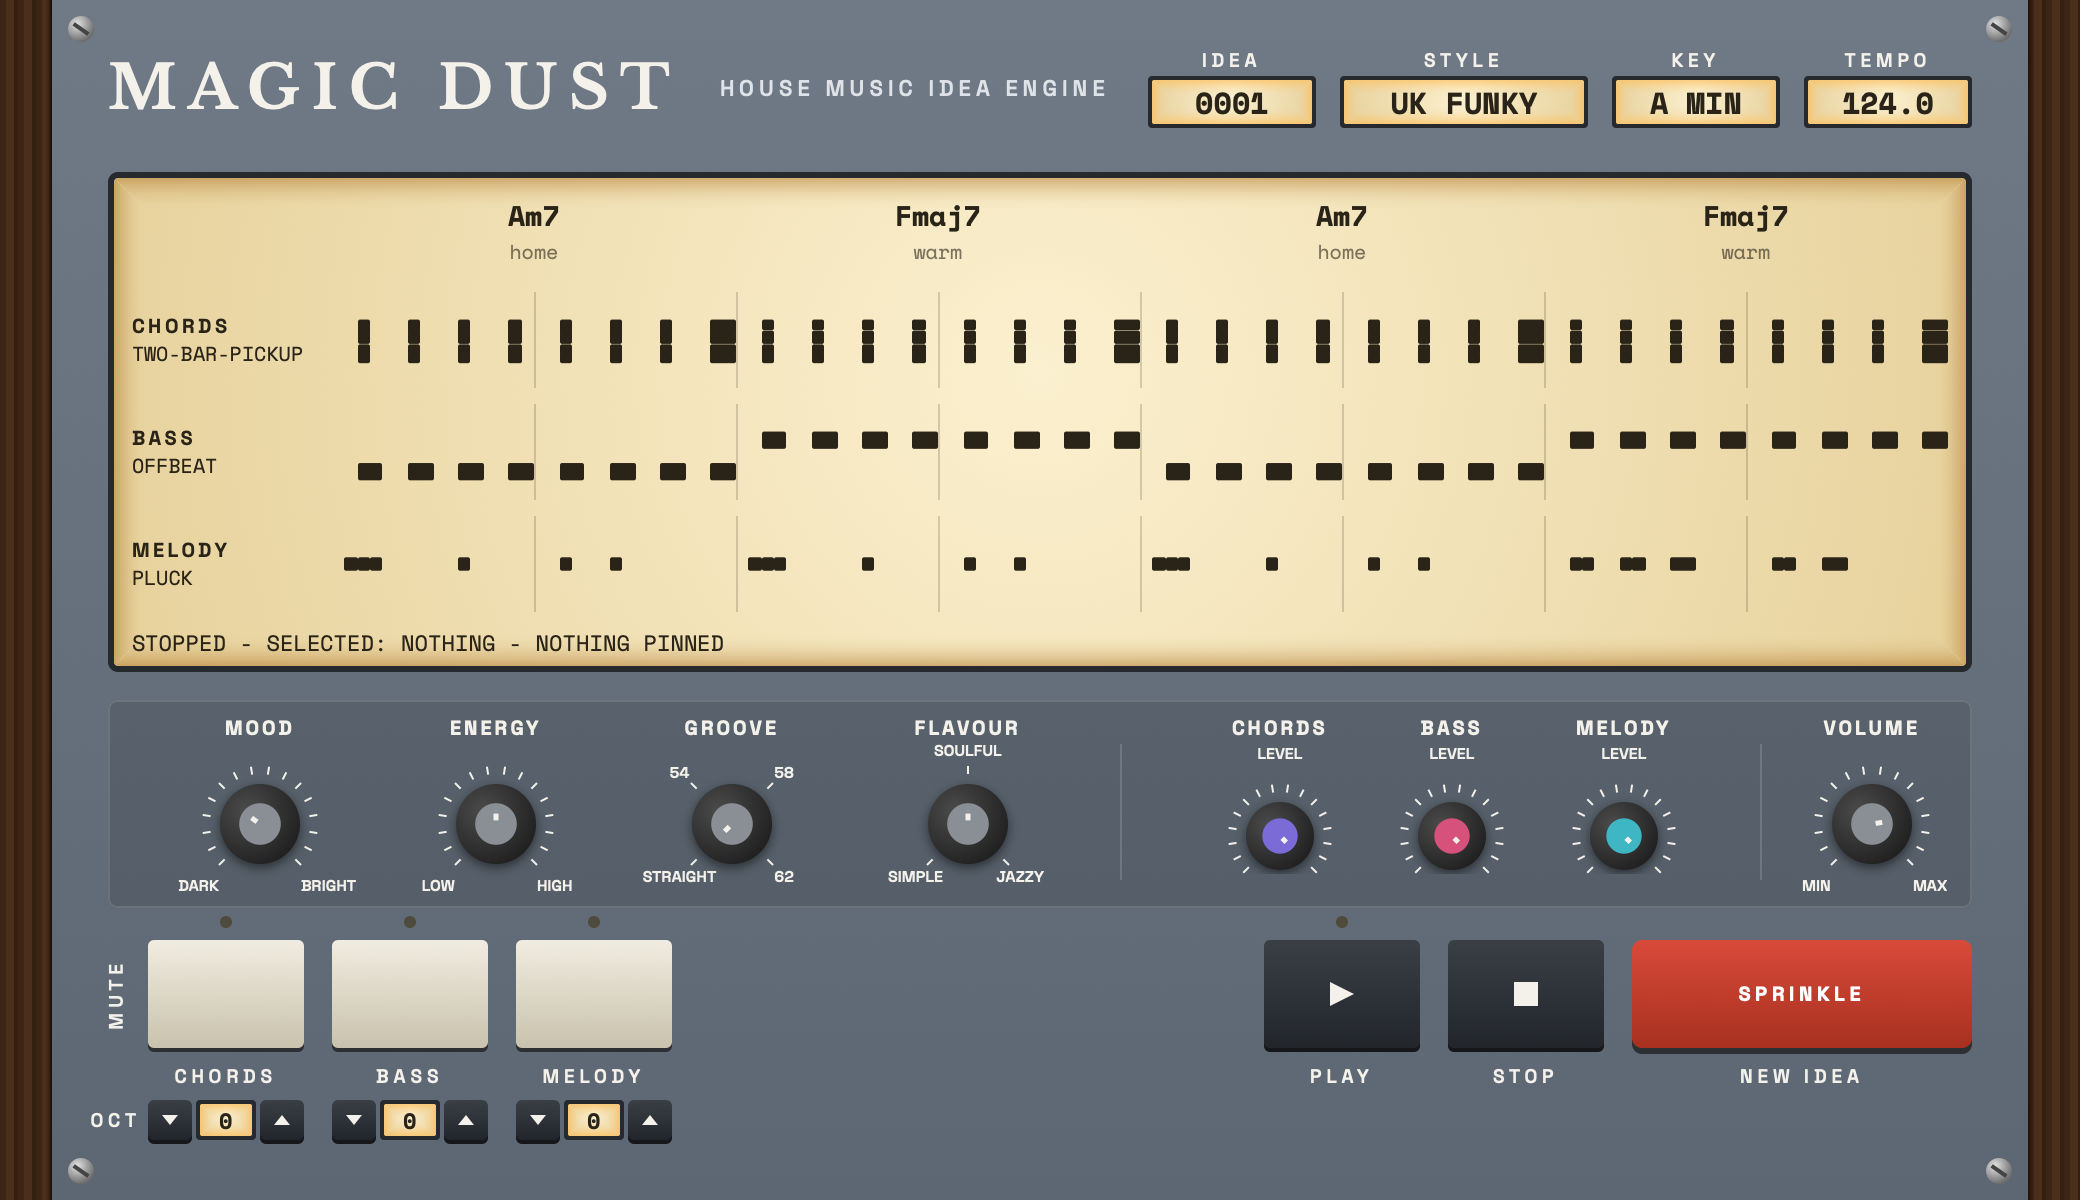
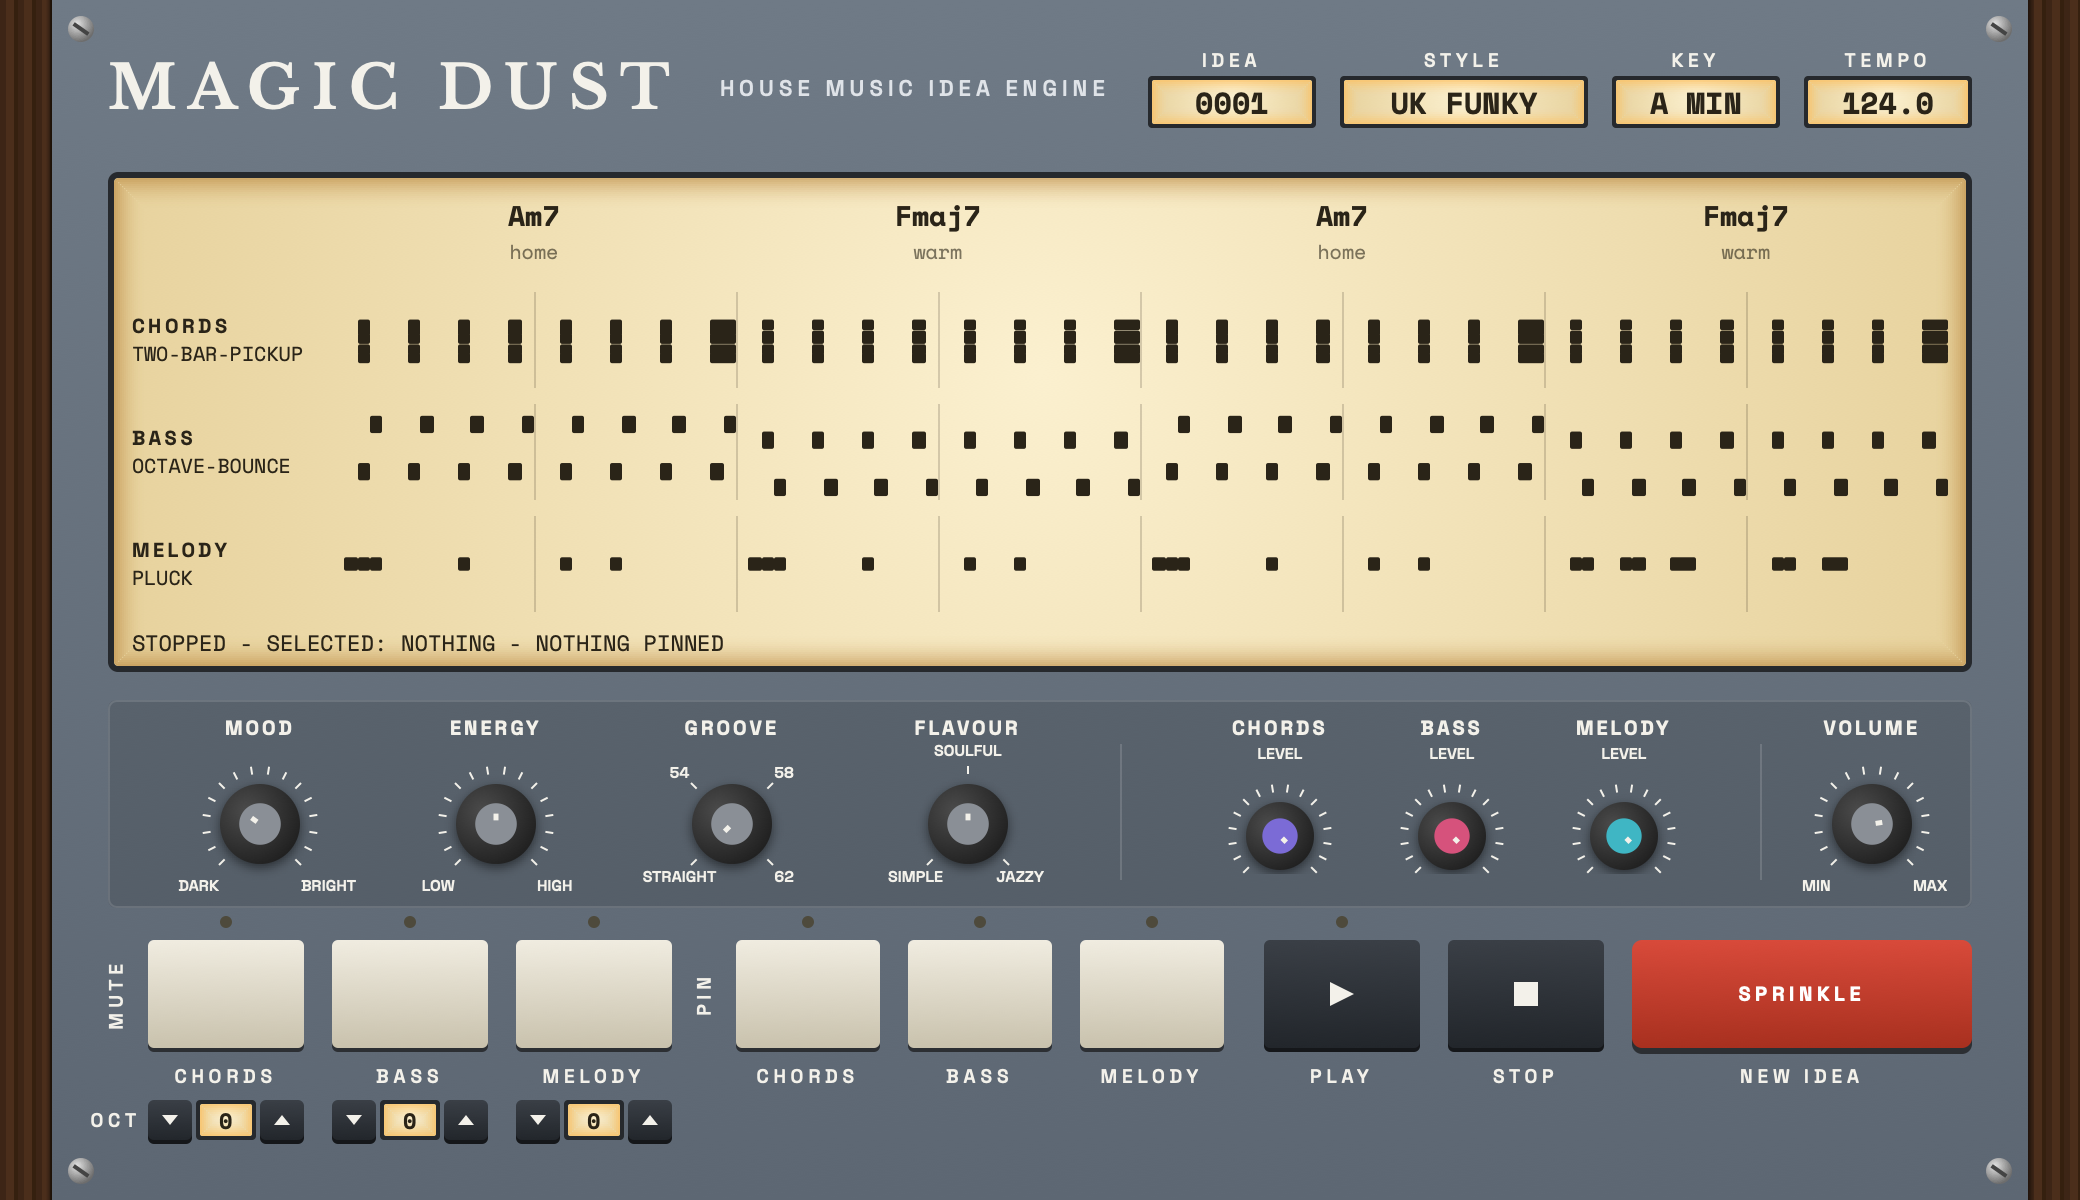
feat(ui): pin keys for chords, bass and melody

diff --git a/tests/plugin/test_editor.cpp b/tests/plugin/test_editor.cpp
@@ -303,7 +303,8 @@ TEST_CASE("the keys sit where the layout table puts them", "[editor]")
 TEST_CASE("every key's legend sits on one baseline, 8 px under the key", "[editor]")
 {
     Fixture f;
-    for (const auto* id : {"mute0", "mute1", "mute2", "playKey", "stopKey", "sprinkleKey"})
+    for (const auto* id :
+         {"mute0", "mute1", "mute2", "pin0", "pin1", "pin2", "playKey", "stopKey", "sprinkleKey"})
     {
         auto& key = f.find<md::ui::KeyButton>(id);
         const auto legend = f.editor->getLocalArea(&key, key.legendBounds());
@@ -427,6 +428,76 @@ TEST_CASE("the mute keys toggle their lane's parameter and light their LEDs", "[
         REQUIRE(key.keyPressed(juce::KeyPress(juce::KeyPress::returnKey)));
         CHECK(param(f, ids.at(i)) == 0.0F);
     }
+}
+
+TEST_CASE("the pin keys sit in the gap before play, named for their lanes", "[editor][pin]")
+{
+    Fixture f;
+    const std::array<int, 3> x{368, 454, 540};
+    const std::array<const char*, 3> titles{"pin chords", "pin bass", "pin melody"};
+    for (std::size_t i = 0; i < 3; ++i)
+    {
+        const auto id = "pin" + std::to_string(i);
+        CHECK(f.boundsOf(id.c_str()) == Rect(x.at(i), 470, 72, 54));
+        CHECK(f.find(id.c_str()).getTitle() == titles.at(i));
+        auto& key = f.find<md::ui::KeyButton>(id.c_str());
+        const auto legend = f.editor->getLocalArea(&key, key.legendBounds());
+        CHECK(legend.getY() == 470 + 54 + 8);
+    }
+}
+
+TEST_CASE("the pin keys toggle their lane's parameter without regenerating", "[editor][pin]")
+{
+    Fixture f;
+    const std::array<const char*, 3> ids{"chordsPin", "bassPin", "melodyPin"};
+    const auto seed = f.processor.idea()->seed;
+    for (std::size_t i = 0; i < ids.size(); ++i)
+    {
+        auto& key = f.find<md::ui::KeyButton>(("pin" + std::to_string(i)).c_str());
+        key.setAnimated(false);
+        CHECK_FALSE(key.isLit());
+        click(key, {18.0F, 12.0F});
+        CHECK(param(f, ids.at(i)) == 1.0F);
+        CHECK(key.isLit());
+        click(key, {18.0F, 12.0F});
+        CHECK(param(f, ids.at(i)) == 0.0F);
+        CHECK_FALSE(key.isLit());
+        REQUIRE(key.keyPressed(juce::KeyPress(juce::KeyPress::returnKey)));
+        CHECK(param(f, ids.at(i)) == 1.0F);
+    }
+    CHECK(f.processor.idea()->seed == seed);
+}
+
+TEST_CASE("a pin key, its lane row tag and the bottom line follow the parameter", "[editor][pin]")
+{
+    Fixture f;
+    f.idea(4);
+    auto& key = f.find<md::ui::KeyButton>("pin1");
+    key.setAnimated(false);
+    const auto bottom = [&] { return f.find<md::ui::Readout>("bottomLine").getText(); };
+    f.refresh();
+    CHECK_FALSE(f.find<md::ui::LaneView>("lane1").pinned());
+    f.processor.params.getParameter("bassPin")->setValueNotifyingHost(1.0F);
+    f.refresh();
+    CHECK(key.isLit());
+    CHECK(f.find<md::ui::LaneView>("lane1").pinned());
+    CHECK_FALSE(f.find<md::ui::LaneView>("lane0").pinned());
+    CHECK(f.find<md::ui::LaneView>("lane1").getAlpha() == Approx(1.0F).margin(kTolerance));
+    CHECK(bottom() == "STOPPED - SELECTED: NOTHING - BASS PINNED");
+    f.processor.params.getParameter("chordsPin")->setValueNotifyingHost(1.0F);
+    f.refresh();
+    CHECK(bottom() == "STOPPED - SELECTED: NOTHING - CHORDS AND BASS PINNED");
+    f.processor.params.getParameter("melodyPin")->setValueNotifyingHost(1.0F);
+    f.refresh();
+    CHECK(bottom() == "STOPPED - SELECTED: NOTHING - CHORDS, BASS AND MELODY PINNED");
+    f.processor.params.getParameter("chordsPin")->setValueNotifyingHost(0.0F);
+    f.processor.params.getParameter("bassPin")->setValueNotifyingHost(0.0F);
+    f.refresh();
+    CHECK(bottom() == "STOPPED - SELECTED: NOTHING - MELODY PINNED");
+    f.processor.params.getParameter("melodyPin")->setValueNotifyingHost(0.0F);
+    f.refresh();
+    CHECK_FALSE(key.isLit());
+    CHECK(bottom() == "STOPPED - SELECTED: NOTHING - NOTHING PINNED");
 }
 
 TEST_CASE("a mute key and its lane row follow the host, and the level knob stays put", "[editor]")
@@ -597,7 +668,7 @@ TEST_CASE("moving 4 px is a click and moving 5 px is a drag", "[editor]")
 }
 
 TEST_CASE("tab visits the wordmark, header, cells, lanes, knobs, levels, volume, then the keys, "
-          "each mute key followed by its octave keys",
+          "each mute key followed by its octave keys and its pin key",
           "[editor]")
 {
     Fixture f;
@@ -611,11 +682,12 @@ TEST_CASE("tab visits the wordmark, header, cells, lanes, knobs, levels, volume,
         current = traverser.getNextComponent(current);
     }
     const std::vector<std::string> expected{
-        "wordmark",   "styleMenu",   "keyMenu",   "cell0",   "cell1",       "cell2",
-        "cell3",      "lane0",       "lane1",     "lane2",   "moodKnob",    "energyKnob",
-        "grooveKnob", "flavourKnob", "level0",    "level1",  "level2",      "volumeKnob",
-        "mute0",      "octave0Down", "octave0Up", "mute1",   "octave1Down", "octave1Up",
-        "mute2",      "octave2Down", "octave2Up", "playKey", "stopKey",     "sprinkleKey"};
+        "wordmark",   "styleMenu",   "keyMenu",    "cell0",       "cell1",     "cell2",
+        "cell3",      "lane0",       "lane1",      "lane2",       "moodKnob",  "energyKnob",
+        "grooveKnob", "flavourKnob", "level0",     "level1",      "level2",    "volumeKnob",
+        "mute0",      "octave0Down", "octave0Up",  "pin0",        "mute1",     "octave1Down",
+        "octave1Up",  "pin1",        "mute2",      "octave2Down", "octave2Up", "pin2",
+        "playKey",    "stopKey",     "sprinkleKey"};
     CHECK(order == expected);
 }
 
@@ -847,6 +919,7 @@ TEST_CASE("every control has an accessible title", "[editor]")
     CHECK(f.find("lane0").getTitle().startsWith("chords lane, "));
     CHECK(f.find("lane1").getTitle().startsWith("bass lane, "));
     CHECK(f.find("lane2").getTitle().startsWith("melody lane, "));
+    CHECK(f.find("pin0").getTitle() == "pin chords");
     CHECK(f.find("level0").getTitle() == "chords level");
     CHECK(f.find("level1").getTitle() == "bass level");
     CHECK(f.find("level2").getTitle() == "melody level");
@@ -1237,6 +1310,8 @@ TEST_CASE("render the editor", "[.render]")
         f.processor.params.getParameter(id)->setValueNotifyingHost(
             f.processor.params.getParameter(id)->convertTo0to1(octave));
     }
+    f.find<md::ui::KeyButton>("pin1").setAnimated(false);
+    f.processor.params.getParameter("bassPin")->setValueNotifyingHost(1.0F);
     dynamic_cast<MagicDustEditor&>(*f.editor).refresh();
     f.refresh();
     const juce::File out(dir);

diff --git a/plugin/PluginEditor.cpp b/plugin/PluginEditor.cpp
@@ -35,6 +35,7 @@ constexpr std::array<md::LaneId, 3> kLanes{md::LaneId::chords, md::LaneId::bass,
                                            md::LaneId::melody};
 
 constexpr std::array<const char*, 3> kMuteIds{"chordsMute", "bassMute", "melodyMute"};
+constexpr std::array<const char*, 3> kPinIds{"chordsPin", "bassPin", "melodyPin"};
 constexpr std::array<const char*, 3> kOctaveIds{"chordsOctave", "bassOctave", "melodyOctave"};
 
 md::ui::KnobLook knobLook(const char* legend, juce::StringArray rangeWords,
@@ -120,6 +121,12 @@ class MagicDustEditor::Body : public juce::Component
           muteKeys_{md::ui::KeyButton(md::ui::laneLook(kLanes.at(0)).label, t::console::ledOn),
                     md::ui::KeyButton(md::ui::laneLook(kLanes.at(1)).label, t::console::ledOn),
                     md::ui::KeyButton(md::ui::laneLook(kLanes.at(2)).label, t::console::ledOn)},
+          pinKeys_{md::ui::KeyButton(md::ui::laneLook(kLanes.at(0)).label,
+                                     md::ui::laneLook(kLanes.at(0)).colour),
+                   md::ui::KeyButton(md::ui::laneLook(kLanes.at(1)).label,
+                                     md::ui::laneLook(kLanes.at(1)).colour),
+                   md::ui::KeyButton(md::ui::laneLook(kLanes.at(2)).label,
+                                     md::ui::laneLook(kLanes.at(2)).colour)},
           rockers_{md::ui::OctaveRocker(processor.params, kOctaveIds.at(0), "chords", 0),
                    md::ui::OctaveRocker(processor.params, kOctaveIds.at(1), "bass", 1),
                    md::ui::OctaveRocker(processor.params, kOctaveIds.at(2), "melody", 2)},
@@ -225,7 +232,8 @@ class MagicDustEditor::Body : public juce::Component
         {
             g.fillRect(x, t::layout::dividerY, 1, t::layout::dividerHeight);
         }
-        paintMuteLegend(g);
+        paintVerticalLegend(g, "MUTE", t::layout::muteLegendCentreX);
+        paintVerticalLegend(g, "PIN", t::layout::pinLegendCentreX);
         paintOctaveLegend(g);
 
         md::ui::paintWordmark(g);
@@ -285,6 +293,17 @@ class MagicDustEditor::Body : public juce::Component
             rocker.setExplicitFocusOrder(13 + (3 * static_cast<int>(i)));
             rocker.setTopLeftPosition(t::layout::muteKeyX.at(i), t::layout::octaveY);
             addAndMakeVisible(rocker);
+
+            auto& pin = pinKeys_.at(i);
+            pin.setComponentID("pin" + juce::String(i));
+            pin.setTitle("pin " + juce::String(md::ui::laneLook(kLanes.at(i)).label));
+            pin.setExplicitFocusOrder(14 + (3 * static_cast<int>(i)));
+            pin.setClickingTogglesState(true);
+            pin.setBounds(t::layout::pinKeyX.at(i), t::layout::keyY, t::layout::pinKeyWidth,
+                          t::layout::keyHeight);
+            pinAttachments_.at(i) = std::make_unique<juce::ButtonParameterAttachment>(
+                *processor_.params.getParameter(kPinIds.at(i)), pin);
+            addAndMakeVisible(pin);
         }
     }
 
@@ -298,20 +317,19 @@ class MagicDustEditor::Body : public juce::Component
         g.drawRoundedRectangle(panel.reduced(0.5F), radius, 1.0F);
     }
 
-    // "MUTE" reading bottom to top, centred left of the mute keys, in the key legend style.
-    static void paintMuteLegend(juce::Graphics& g)
+    // "MUTE" or "PIN" reading bottom to top, centred left of its keys, in the key legend style.
+    static void paintVerticalLegend(juce::Graphics& g, const char* text, int centreX)
     {
-        const auto centre =
-            juce::Point<float>(static_cast<float>(t::layout::muteLegendCentreX),
-                               static_cast<float>(t::layout::keyY) +
-                                   (static_cast<float>(t::layout::keyHeight) / 2.0F));
+        const auto centre = juce::Point<float>(
+            static_cast<float>(centreX), static_cast<float>(t::layout::keyY) +
+                                             (static_cast<float>(t::layout::keyHeight) / 2.0F));
         const juce::Graphics::ScopedSaveState state(g);
         g.addTransform(juce::AffineTransform::rotation(-juce::MathConstants<float>::halfPi,
                                                        centre.x, centre.y));
         g.setColour(t::console::legend);
         g.setFont(md::ui::font(md::ui::Face::groteskMedium, t::layout::legendSize)
                       .withExtraKerningFactor(t::layout::legendSpacing));
-        g.drawText("MUTE",
+        g.drawText(text,
                    juce::Rectangle<float>(static_cast<float>(t::layout::legendHeight) * 5.0F,
                                           static_cast<float>(t::layout::legendHeight))
                        .withCentre(centre),
@@ -381,6 +399,8 @@ class MagicDustEditor::Body : public juce::Component
     md::ui::Knob volume_;
     std::array<md::ui::KeyButton, 3> muteKeys_;
     std::array<std::unique_ptr<juce::ButtonParameterAttachment>, 3> muteAttachments_;
+    std::array<md::ui::KeyButton, 3> pinKeys_;
+    std::array<std::unique_ptr<juce::ButtonParameterAttachment>, 3> pinAttachments_;
     std::array<md::ui::OctaveRocker, 3> rockers_;
     md::ui::KeyButton playKey_;
     md::ui::KeyButton stopKey_;

diff --git a/ui/LaneView.cpp b/ui/LaneView.cpp
@@ -39,6 +39,28 @@ LaneLook laneLook(md::LaneId lane)
             .high = md::kMelodyHigh};
 }
 
+namespace
+{
+
+// A pill of the lane colour reading PINNED, left edge `x` past the name, centred on the name line.
+void paintPinnedTag(juce::Graphics& g, juce::Colour colour, float x, float top, float lineHeight)
+{
+    const auto tagFont = font(Face::groteskBold, t::layout::pinnedTagSize)
+                             .withExtraKerningFactor(t::layout::laneNameSpacing);
+    const auto width = juce::GlyphArrangement::getStringWidth(tagFont, "PINNED") +
+                       (2.0F * t::layout::pinnedTagPadX);
+    const auto tag =
+        juce::Rectangle<float>(x + t::layout::pinnedTagGap, 0.0F, width, t::layout::pinnedTagHeight)
+            .withCentre({x + t::layout::pinnedTagGap + (width / 2.0F), top + (lineHeight / 2.0F)});
+    g.setColour(colour);
+    g.fillRoundedRectangle(tag, tag.getHeight() / 2.0F);
+    g.setColour(juce::Colours::white);
+    g.setFont(tagFont);
+    g.drawText("PINNED", tag, juce::Justification::centred, false);
+}
+
+} // namespace
+
 PianoRoll::PianoRoll(md::LaneId lane) : lane_(lane) { setInterceptsMouseClicks(false, false); }
 
 void PianoRoll::set(const std::vector<md::NoteEvent>& notes, int bars,
@@ -128,6 +150,15 @@ void LaneView::set(const md::Lane& lane, int bars, std::optional<float> playhead
 
 void LaneView::setMuted(bool muted) { setAlpha(muted ? t::layout::mutedAlpha : 1.0F); }
 
+void LaneView::setPinned(bool pinned)
+{
+    if (pinned != pinned_)
+    {
+        pinned_ = pinned;
+        repaint();
+    }
+}
+
 void LaneView::resized()
 {
     roll_.setBounds(t::layout::rollX - t::layout::laneX, t::layout::rollPadY, t::layout::rollWidth,
@@ -203,6 +234,15 @@ void LaneView::paint(juce::Graphics& g)
     g.drawText(juce::String(laneLook(lane_).label).toUpperCase(),
                juce::Rectangle<float>(label.getX(), top, label.getWidth(), nameFont.getHeight()),
                juce::Justification::centredLeft, true);
+    if (pinned_)
+    {
+        paintPinnedTag(g, laneLook(lane_).colour,
+                       label.getX() +
+                           juce::GlyphArrangement::getStringWidth(
+                               nameFont, juce::String(laneLook(lane_).label).toUpperCase()),
+                       top, nameFont.getHeight());
+        g.setColour(ink);
+    }
     g.setFont(patternFont);
     g.drawText(drawnPattern(),
                juce::Rectangle<float>(label.getX(), top + nameFont.getHeight(), label.getWidth(),

diff --git a/ui/ScreenComponent.cpp b/ui/ScreenComponent.cpp
@@ -7,6 +7,7 @@
 #include <optional>
 #include <string>
 #include <utility>
+#include <vector>
 
 #include "md/ranges.hpp"
 #include "md/theory.hpp"
@@ -44,6 +45,30 @@ juce::String selectedText(Selection selection)
         break;
     }
     return "selected: nothing";
+}
+
+// "nothing pinned", "bass pinned", "chords and bass pinned", "chords, bass and melody pinned".
+juce::String pinnedText(const std::array<bool, 3>& pinned)
+{
+    std::vector<juce::String> names;
+    for (std::size_t i = 0; i < pinned.size(); ++i)
+    {
+        if (pinned.at(i))
+        {
+            names.push_back(juce::String(laneLook(static_cast<md::LaneId>(i)).label).toLowerCase());
+        }
+    }
+    if (names.empty())
+    {
+        return "nothing pinned";
+    }
+    const auto last = names.back();
+    names.pop_back();
+    return (names.empty() ? last
+                          : juce::StringArray(names.data(), static_cast<int>(names.size()))
+                                    .joinIntoString(", ") +
+                                " and " + last) +
+           " pinned";
 }
 
 } // namespace
@@ -176,8 +201,14 @@ void ScreenComponent::refresh()
     {
         lanes_.at(i).setMuted(processor_.laneMuted(static_cast<md::LaneId>(i)));
     }
+    const auto pins = processor_.pins();
+    const std::array<bool, 3> pinned{pins.chords, pins.bass, pins.melody};
+    for (std::size_t i = 0; i < lanes_.size(); ++i)
+    {
+        lanes_.at(i).setPinned(pinned.at(i));
+    }
     bottomLine_.set(playing ? static_cast<int>(barPosition) + 1 : 0, bars, selectedText(selection_),
-                    "nothing pinned");
+                    pinnedText(pinned));
 }
 
 void ScreenComponent::paint(juce::Graphics& g)

diff --git a/ui/Tokens.h b/ui/Tokens.h
@@ -121,6 +121,11 @@ inline constexpr int laneLabelWidth = 96;
 inline constexpr float laneNameSize = 10.0F;
 inline constexpr float laneNameSpacing = 0.14F; // em
 inline constexpr float lanePatternSize = 10.0F;
+// The small PINNED pill beside a pinned lane's name, in the lane's cap colour.
+inline constexpr float pinnedTagSize = 7.0F;
+inline constexpr float pinnedTagGap = 6.0F;
+inline constexpr float pinnedTagPadX = 5.0F;
+inline constexpr float pinnedTagHeight = 10.0F;
 inline constexpr int rollX = 166;
 inline constexpr int rollPadY = 2;
 inline constexpr int rollWidth = 808;
@@ -167,6 +172,11 @@ inline constexpr int keyWidth = 78;
 // The MUTE and OCT legends share this x, clear of the first mute key and the first octave rocker.
 inline constexpr int muteLegendCentreX = 58;
 inline constexpr std::array<int, 3> muteKeyX{74, 166, 258};
+// The PIN group in the gap before PLAY: its own vertical legend, in line with MUTE, and three
+// narrower keys.
+inline constexpr int pinLegendCentreX = 352;
+inline constexpr int pinKeyWidth = 72;
+inline constexpr std::array<int, 3> pinKeyX{368, 454, 540};
 inline constexpr std::array<int, 2> transportKeyX{632, 724};
 inline const juce::Rectangle<int> sprinkleKey{816, keyY, 170, keyHeight};
 // The octave rockers sit under the mute keys' legends, one row, with a short OCT legend to the

diff --git a/ui/LaneView.h b/ui/LaneView.h
@@ -53,6 +53,9 @@ class LaneView : public juce::Component
     void set(const md::Lane& lane, int bars, std::optional<float> playhead, bool selected);
     // A muted lane's row is drawn faint.
     void setMuted(bool muted);
+    // A pinned lane shows a small PINNED tag beside its name.
+    void setPinned(bool pinned);
+    [[nodiscard]] bool pinned() const { return pinned_; }
     [[nodiscard]] bool muted() const { return getAlpha() < 1.0F; }
     [[nodiscard]] PianoRoll& roll() { return roll_; }
     [[nodiscard]] juce::Rectangle<int> labelBounds() const;
@@ -77,6 +80,7 @@ class LaneView : public juce::Component
     PianoRoll roll_;
     juce::String pattern_;
     bool selected_ = false;
+    bool pinned_ = false;
     bool dragging_ = false;
     std::function<void()> onClick_;
     std::function<void()> onDrag_;
